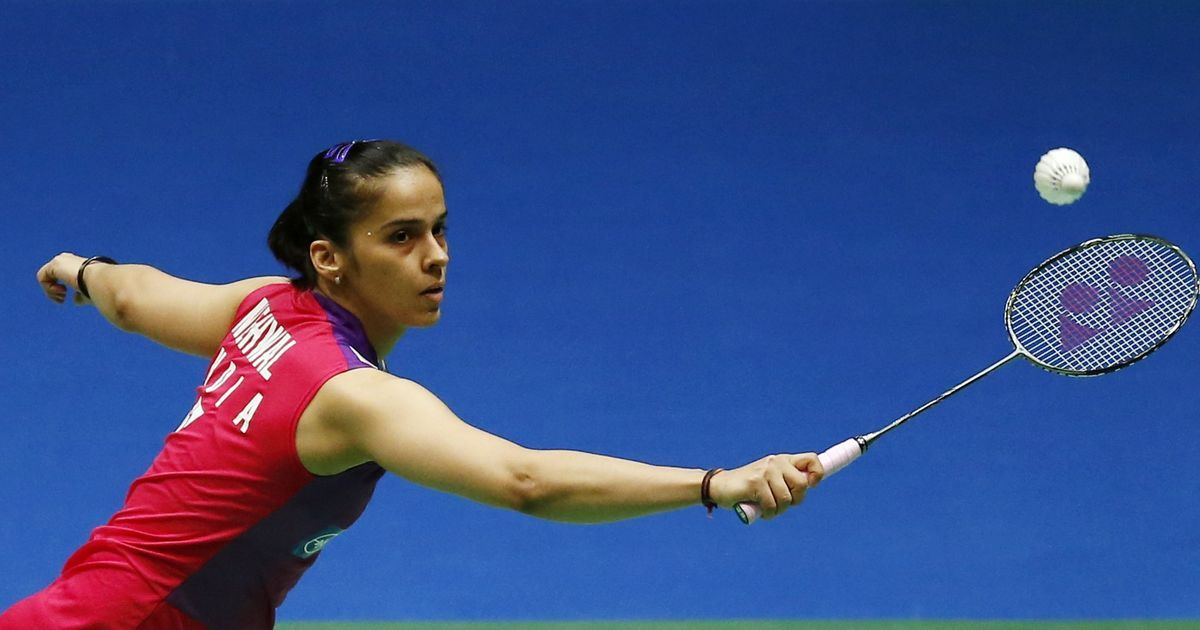
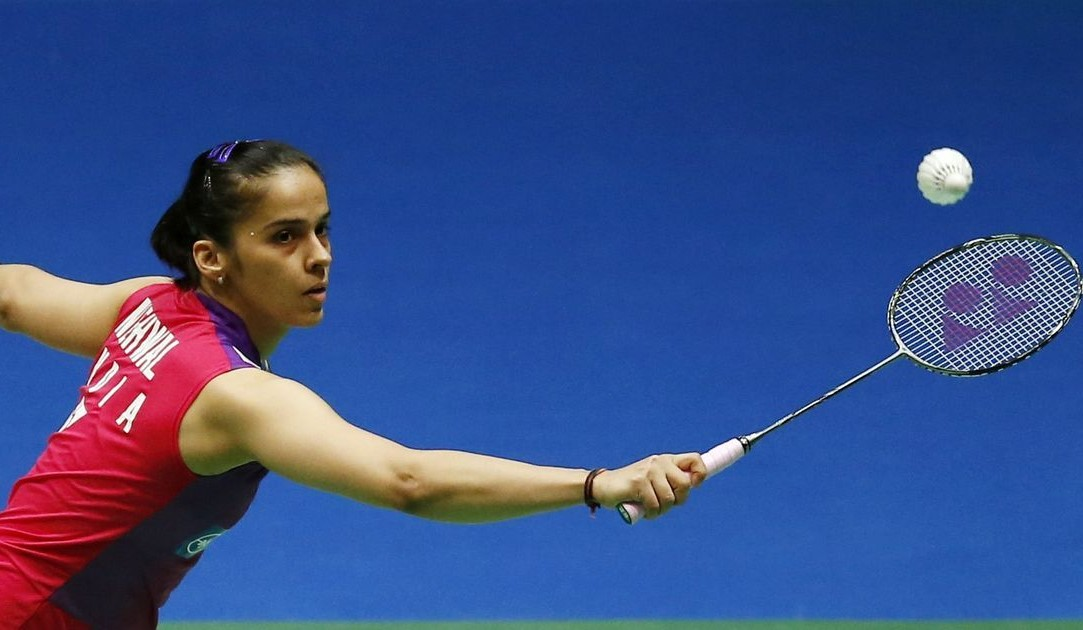
carousel length updated

Changed region(s): [[0.0, 0.2111, 1.0, 1.0], [0.8227, 0.2111, 0.9141, 0.3317]]

diff --git a/src/component/Dashboard.js b/src/component/Dashboard.js
@@ -43,37 +43,37 @@ export default function Dashboard({}) {
                     <div class="row g-5">
                         <div class="col-lg-2 col-md-4 col-sm-6">
                             <div class="bg-dark rounded text-center py-4 px-3">
-                                <h5 class="text-white mb-0" style={{fontSize:'30px'}} data-toggle="counter-up" id="count1">123</h5>
+                                <h5 class="text-white mb-0" style={{fontSize:'30px'}} data-toggle="counter-up" id="count1">-</h5>
                                 <h4 class="text-uppercase display-7 text-primary">Total</h4>
                             </div>
                         </div>
                         <div class="col-lg-2 col-md-4 col-sm-6">
                             <div class="bg-dark rounded text-center py-4 px-3">
-                                <h5 class="text-white mb-0" style={{fontSize:'30px'}} data-toggle="counter-up" id="count2">87</h5>
+                                <h5 class="text-white mb-0" style={{fontSize:'30px'}} data-toggle="counter-up" id="count2">-</h5>
                                 <h4 class="text-uppercase display-7 text-primary">Coaching</h4>
                             </div>
                         </div>
                         <div class="col-lg-2 col-md-4 col-sm-6">
                             <div class="bg-dark rounded text-center py-4 px-3">
-                                <h5 class="text-white mb-0" style={{fontSize:'30px'}} data-toggle="counter-up" id="count3">45</h5>   
+                                <h5 class="text-white mb-0" style={{fontSize:'30px'}} data-toggle="counter-up" id="count3">-</h5>   
                                 <h4 class="text-uppercase display-7 text-primary">Beginner</h4>
                             </div>
                         </div>
                         <div class="col-lg-2 col-md-4 col-sm-6">
                             <div class="bg-dark rounded text-center py-4 px-3">
-                                <h5 class="text-white mb-0" style={{fontSize:'30px'}} data-toggle="counter-up" id="count4">24</h5>
+                                <h5 class="text-white mb-0" style={{fontSize:'30px'}} data-toggle="counter-up" id="count4">-</h5>
                                 <h4 class="text-uppercase display-7 text-primary">Professional</h4>
                             </div>
                         </div>
                         <div class="col-lg-2 col-md-4 col-sm-6">
                             <div class="bg-dark rounded text-center py-4 px-3">
-                                <h5 class="text-white mb-0" style={{fontSize:'30px'}} data-toggle="counter-up" id="count5">55</h5>
+                                <h5 class="text-white mb-0" style={{fontSize:'30px'}} data-toggle="counter-up" id="count5">-</h5>
                                 <h4 class="text-uppercase display-7 text-primary">Recretional</h4>
                             </div>
                         </div>
                         <div class="col-lg-2 col-md-4 col-sm-6">
                             <div class="bg-dark rounded text-center py-4 px-3">
-                                <h5 class="text-white mb-0" style={{fontSize:'30px'}} data-toggle="counter-up" id="count6">11</h5>
+                                <h5 class="text-white mb-0" style={{fontSize:'30px'}} data-toggle="counter-up" id="count6">-</h5>
                                 <h4 class="text-uppercase display-7 text-primary">Coach</h4>
                             </div>
                         </div>

diff --git a/src/component/Header.js b/src/component/Header.js
@@ -11,7 +11,7 @@ export default function Header() {
         <div class="row gx-0">
             <div class="col-lg-2 bg-dark d-none d-lg-block">
             <Link  to="/" class="navbar-brand w-100 h-100 m-0 p-0 d-flex align-items-center justify-content-center">
-                    <h1 class="m-0 display-7 text-primary text-uppercase"><img src={logo} width='150px' style={{marginTop:'-10px', marginLeft:'-10px'}}></img></h1>
+                    <Link to="/" class="m-0 display-7 text-primary text-uppercase"><img src={logo} width='150px' style={{marginTop:'-10px', marginLeft:'-10px'}}></img></Link>
                 </Link>
             </div>
             <div class="col-lg-10">
@@ -48,7 +48,7 @@ export default function Header() {
                 </div>
                 <nav class="navbar navbar-expand-lg bg-dark navbar-dark p-3 p-lg-0 px-lg-5">
                     <a href="index.html" class="navbar-brand d-block d-lg-none">
-                        <h1 class="m-0 display-4 text-primary text-uppercase"><img src={logo} width='80px' style={{marginTop:'-10px', marginLeft:'10px'}}></img></h1>
+                        <Link to="/" class="m-0 display-4 text-primary text-uppercase"><img src={logo} width='80px' style={{marginTop:'-10px', marginLeft:'10px'}}></img></Link>
                     </a>
                     <button type="button" class="navbar-toggler" data-bs-toggle="collapse" data-bs-target="#navbarCollapse">
                         <span class="navbar-toggler-icon"></span>

diff --git a/src/component/Home.js b/src/component/Home.js
@@ -11,15 +11,18 @@ export default function Home() {
         <div id="header-carousel" class="carousel slide" data-bs-ride="carousel">
             <div class="carousel-inner">
                 <div class="carousel-item active">
-                    <img class="w-100" src="img/carousel-1.jpg" alt="Image" />
-                    <div class="carousel-caption d-flex flex-column align-items-center justify-content-center">
+                    <img class="w-100 h-100" src="img/carousel-1.jpg" alt="Image" />
+                    <div class="carousel-caption d-flex flex-column align-items-center justify-content-center p-5">
                         <div class="p-3" style={{maxWidth: '900px'}}>
                             <h5 class="text-white text-uppercase">Best Badminton Club</h5>
                             <h1 class="display-2 text-white text-uppercase mb-md-4">Beyond Limits : Join Achievers Badminton Club!</h1>
                             <a href="" class="btn btn-primary py-md-3 px-md-5 me-3">Join Us</a>
                             <a href="" class="btn btn-light py-md-3 px-md-5">Contact Us</a>
+                        
                         </div>
+                       
                     </div>
+                   
                 </div>
                 {/* <div class="carousel-item">
                     <img class="w-100" src="img/carousel-2.jpg" alt="Image" />
